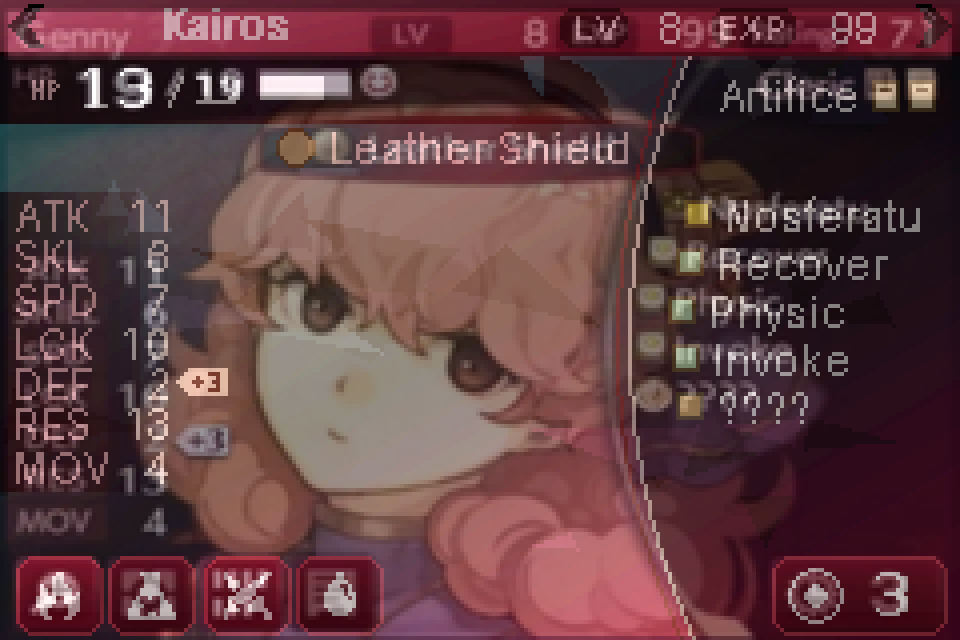
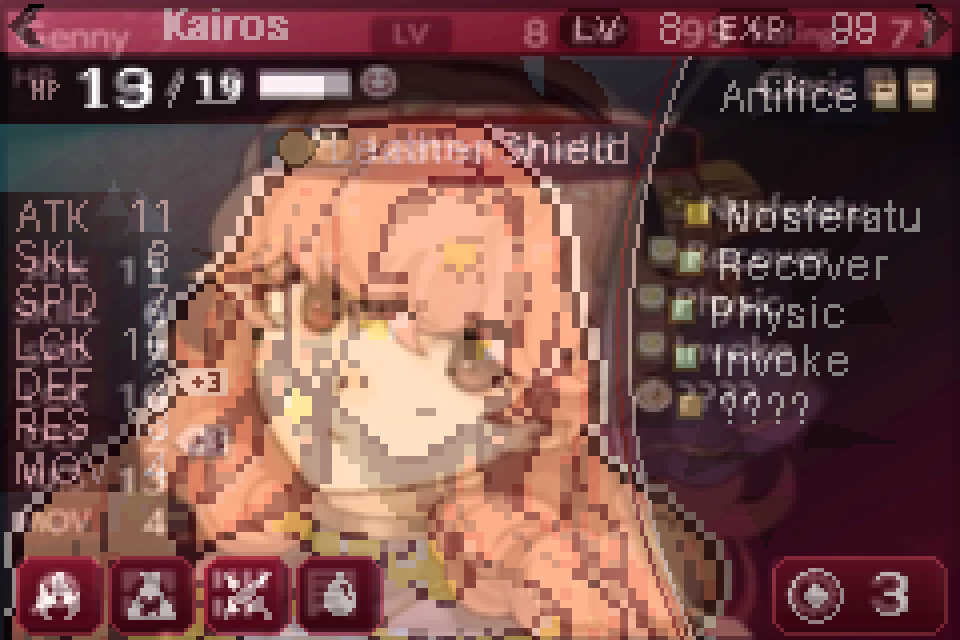
Soporte para varios retratos (RETRATO=kairos|2) y prueba con un segundo retrato
Claude-Session: https://claude.ai/code/session_01C4QAM7MwvCQVjJLG12SBSt

diff --git a/gba_status/generar.py b/gba_status/generar.py
@@ -60,9 +60,14 @@ elif FONDO == "negro":
     pass
 
 # retrato (arte del usuario, fondo morado transparente)
-RX, RY = -26, 17  # ojos alineados con la guia
-art = Image.open("retrato_busto.png").convert("RGB")
-bgc = (77, 26, 77)
+# retratos disponibles: archivo, color de fondo a quitar, posicion y escala
+# (el punto medio entre los ojos cae en ~(110, 84) de la pantalla)
+RETRATOS = {
+    "kairos": ("retrato_busto.png", (77, 26, 77), -26, 17, 3.2),
+    "2": ("retrato_2.png", (169, 203, 166), 1, 25, 2.4),
+}
+_arch, bgc, RX, RY, ESC_R = RETRATOS[os.environ.get("RETRATO", "kairos")]
+art = Image.open(_arch).convert("RGB")
 # quitar fondo morado y marco gris conectado al borde (flood fill)
 fondo = {bgc}  # solo el morado; el gris oscuro es pelo
 mask = Image.new("L", art.size, 255)
@@ -76,7 +81,7 @@ for y in range(art.height):
     for x in range(art.width):
         if art.getpixel((x, y)) == bgc: mask.putpixel((x, y), 0)
         art.putpixel((x, y), c(*art.getpixel((x, y))))
-ESC = 3.2  # cabeza grande, cortada bajo los hombros
+ESC = ESC_R  # cabeza grande, cortada bajo los hombros
 art = art.resize((int(art.width * ESC), int(art.height * ESC)), Image.NEAREST)
 mask = mask.resize(art.size, Image.NEAREST)
 import os
@@ -285,6 +290,7 @@ d.text((218, 140), "3", font=fb, fill=TXT)
 
 img = img.point(q5)
 suf = "_sin_retrato" if os.environ.get("SIN_RETRATO") else ""
+if os.environ.get("RETRATO", "kairos") != "kairos" and not os.environ.get("SIN_RETRATO"): suf += "_r" + os.environ["RETRATO"]
 if os.environ.get("SIN_BANNER"): suf += "_sin_banner"
 if not ICONOS_ON: suf += "_sin_iconos"
 if FONDO != "luz": suf += "_" + FONDO

diff --git a/gba_status/recolorear.py b/gba_status/recolorear.py
@@ -7,7 +7,7 @@ env = dict(os.environ); FONDO = env.get("FONDO", "luz")
 sf = "" if FONDO == "luz" else "_" + FONDO
 run = lambda **e: subprocess.run([sys.executable, "generar.py"], check=True, env={**env, **e}, capture_output=True)
 run(); run(SIN_RETRATO="1", SIN_ICONOS="1"); run(FONDO="negro"); run(SIN_BANNER="1")
-sr = "_sin_retrato" if env.get("SIN_RETRATO") else ""
+sr = "_sin_retrato" if env.get("SIN_RETRATO") else ("_r" + env["RETRATO"] if env.get("RETRATO", "kairos") != "kairos" else "")
 full = Image.open(f"estado_gba{sr}{sf}.png").convert("RGB"); ui = Image.open(f"estado_gba_sin_retrato_sin_iconos{sf}.png").convert("RGB")
 debajo = Image.open(f"estado_gba{sr}_sin_banner{sf}.png").convert("RGB")  # lo que hay detras del recuadro
 negro = Image.open(f"estado_gba{sr}_negro.png").convert("RGB")  # para saber que pixeles dependen del fondo

diff --git a/gba_status/animar.py b/gba_status/animar.py
@@ -3,7 +3,7 @@ Uso: FONDO=fisuras_fucsia python3 animar.py gris_final [cuadros]"""
 import os, sys, subprocess
 from PIL import Image
 tema = sys.argv[1] if len(sys.argv) > 1 else "gris_final"; N = int(sys.argv[2]) if len(sys.argv) > 2 else 16
-FONDO = os.environ.get("FONDO", "fisuras_fucsia"); sr = "_sin_retrato" if os.environ.get("SIN_RETRATO") else ""
+FONDO = os.environ.get("FONDO", "fisuras_fucsia"); sr = "_sin_retrato" if os.environ.get("SIN_RETRATO") else ("_r" + os.environ["RETRATO"] if os.environ.get("RETRATO", "kairos") != "kairos" else "")
 cuadros = []
 for i in range(N):
     subprocess.run([sys.executable, "recolorear.py", tema], check=True, capture_output=True,
